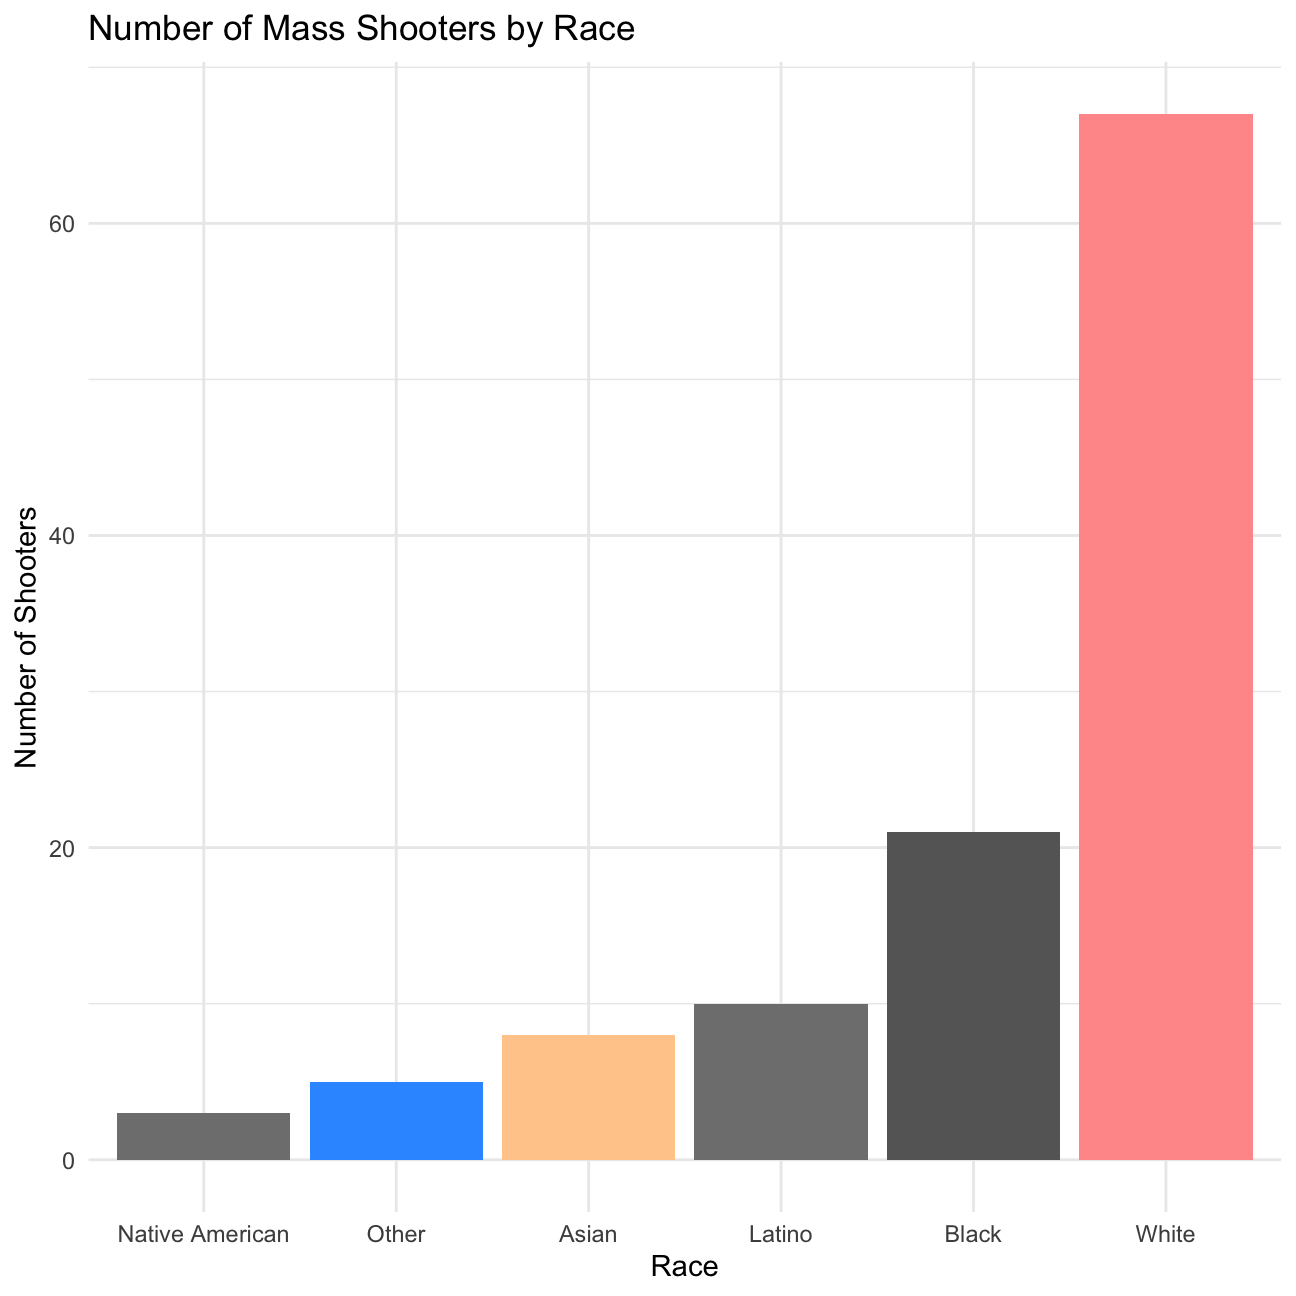
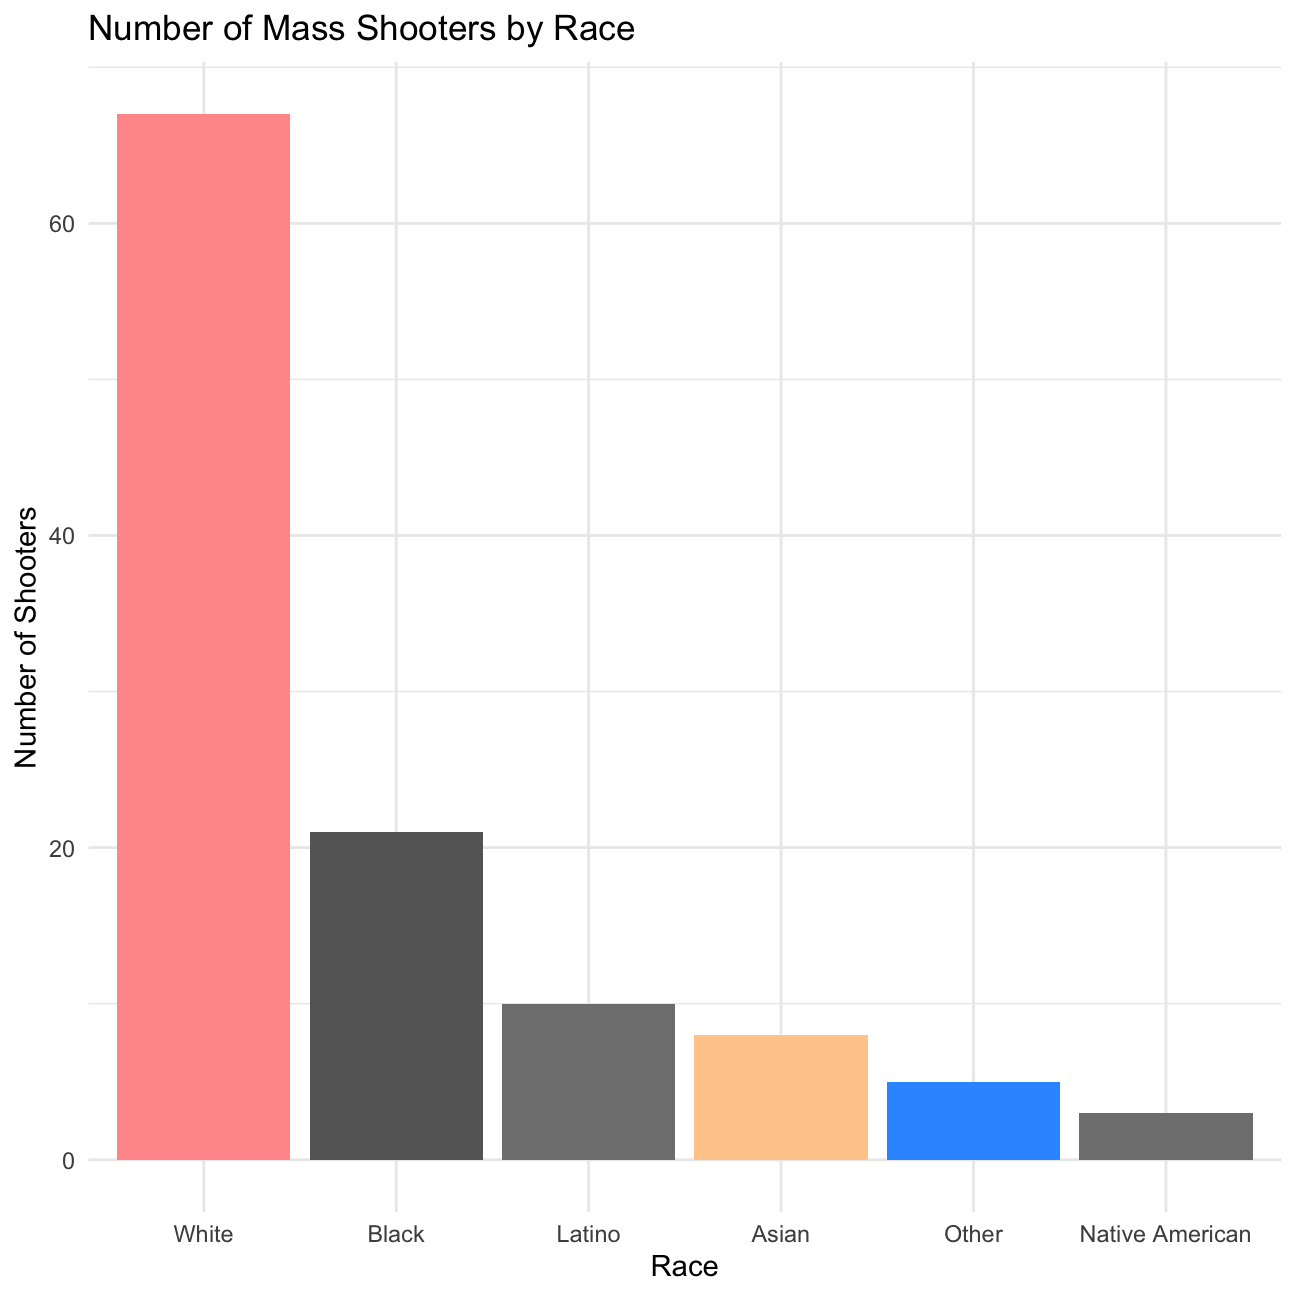
Gaing23061602

diff --git a/content/blogs/blo4.md b/content/blogs/blo4.md
@@ -94,28 +94,9 @@ Generate a bar chart that identifies the number of mass shooters associated with
 # Create a custom color palette
 my_colors <- c("White" = "#FF9999", "Black" = "#666666", "Asian" = "#FFCC99", "Other" = "#3399FF")
 
-# Reorder the data frame by the number of shooters in descending order and eliminate the NA
-mass_shootings %>% 
-  count(race, sort=TRUE) %>% 
-  drop_na(race) %>% 
-  mutate(race = fct_reorder(race, n)) %>% 
-  
-  
-# Create the bar chart with ordered bars and custom colors
-  ggplot( aes(x = race, y = n, fill = race)) +
-  geom_col()+
-  scale_fill_manual(values = my_colors) +
-  labs(x = "Race", y = "Number of Shooters") +
-  ggtitle("Number of Mass Shooters by Race") +
-  theme_minimal()+
-  theme(legend.position = "none")
-```
 
-<img src="/blogs/blo4_files/figure-html/unnamed-chunk-2-1.png" width="648" style="display: block; margin: auto;" />
-
-```r
 # Create the bar chart with ordered bars and custom colors in the other way from max to min
-ggplot(mass_shootings %>% 
+chart5 <- ggplot(mass_shootings %>% 
          count(race, sort = TRUE) %>% 
          drop_na(race) %>% 
          mutate(race = fct_reorder(race, n)),
@@ -126,9 +107,11 @@ ggplot(mass_shootings %>%
   ggtitle("Number of Mass Shooters by Race") +
   theme_minimal() +
   theme(legend.position = "none")
+
+chart5
 ```
 
-<img src="/blogs/blo4_files/figure-html/unnamed-chunk-2-2.png" width="648" style="display: block; margin: auto;" />
+<img src="/blogs/blo4_files/figure-html/unnamed-chunk-2-1.png" width="648" style="display: block; margin: auto;" />
 Generate a boxplot visualizing the number of total victims, by type of location.
 
 
@@ -136,26 +119,30 @@ Generate a boxplot visualizing the number of total victims, by type of location.
 library(ggplot2)
 
 # Create the boxplot
-ggplot(mass_shootings, aes(x = location_type, y = total_victims)) +
+chart2 <- ggplot(mass_shootings, aes(x = location_type, y = total_victims)) +
   geom_boxplot(fill = "steelblue", color = "black") +
   labs(x = "Location", y = "Total Victims") +
   ggtitle("Number of Total Victims by Location Type") +
   theme_minimal()
-```
 
-<img src="/blogs/blo4_files/figure-html/unnamed-chunk-3-1.png" width="648" style="display: block; margin: auto;" />
-
-```r
 # Preprocess the data to remove the outlier in the "Others" location type to make a better chart 
 processed_data <- mass_shootings
 processed_data$total_victims[processed_data$location_type == "Other" & processed_data$total_victims == 604] <- NA
 
 # Create the boxplot with outliers, excluding the outlier in the "Others" location type
-ggplot(processed_data, aes(x = location_type, y = total_victims)) +
+chart3 <- ggplot(processed_data, aes(x = location_type, y = total_victims)) +
   geom_boxplot(fill = "steelblue", color = "black", outlier.colour = "red", outlier.shape = 16) +
   labs(x = "Location", y = "Total Victims") +
   ggtitle("Number of Total Victims by Location Type") +
   theme_minimal()
+
+chart2
+```
+
+<img src="/blogs/blo4_files/figure-html/unnamed-chunk-3-1.png" width="648" style="display: block; margin: auto;" />
+
+```r
+chart3
 ```
 
 <img src="/blogs/blo4_files/figure-html/unnamed-chunk-3-2.png" width="648" style="display: block; margin: auto;" />
@@ -204,12 +191,14 @@ max_month <- shootings_by_month$month[which.max(shootings_by_month$n)]
 max_count <- max(shootings_by_month$n)
 
 # Create the bar chart
-ggplot(shootings_by_month, aes(x = month, y = n)) +
+chart <- ggplot(shootings_by_month, aes(x = month, y = n)) +
   geom_bar(stat = "identity", fill = ifelse(shootings_by_month$month == max_month, "red", "steelblue"), color = "black") +
   labs(x = "Month", y = "Number of Mass Shootings") +
   ggtitle("Number of Mass Shootings by Month") +
   theme_minimal() +
   theme(legend.position = "none")
+
+chart
 ```
 
 <img src="/blogs/blo4_files/figure-html/unnamed-chunk-5-1.png" width="648" style="display: block; margin: auto;" />
